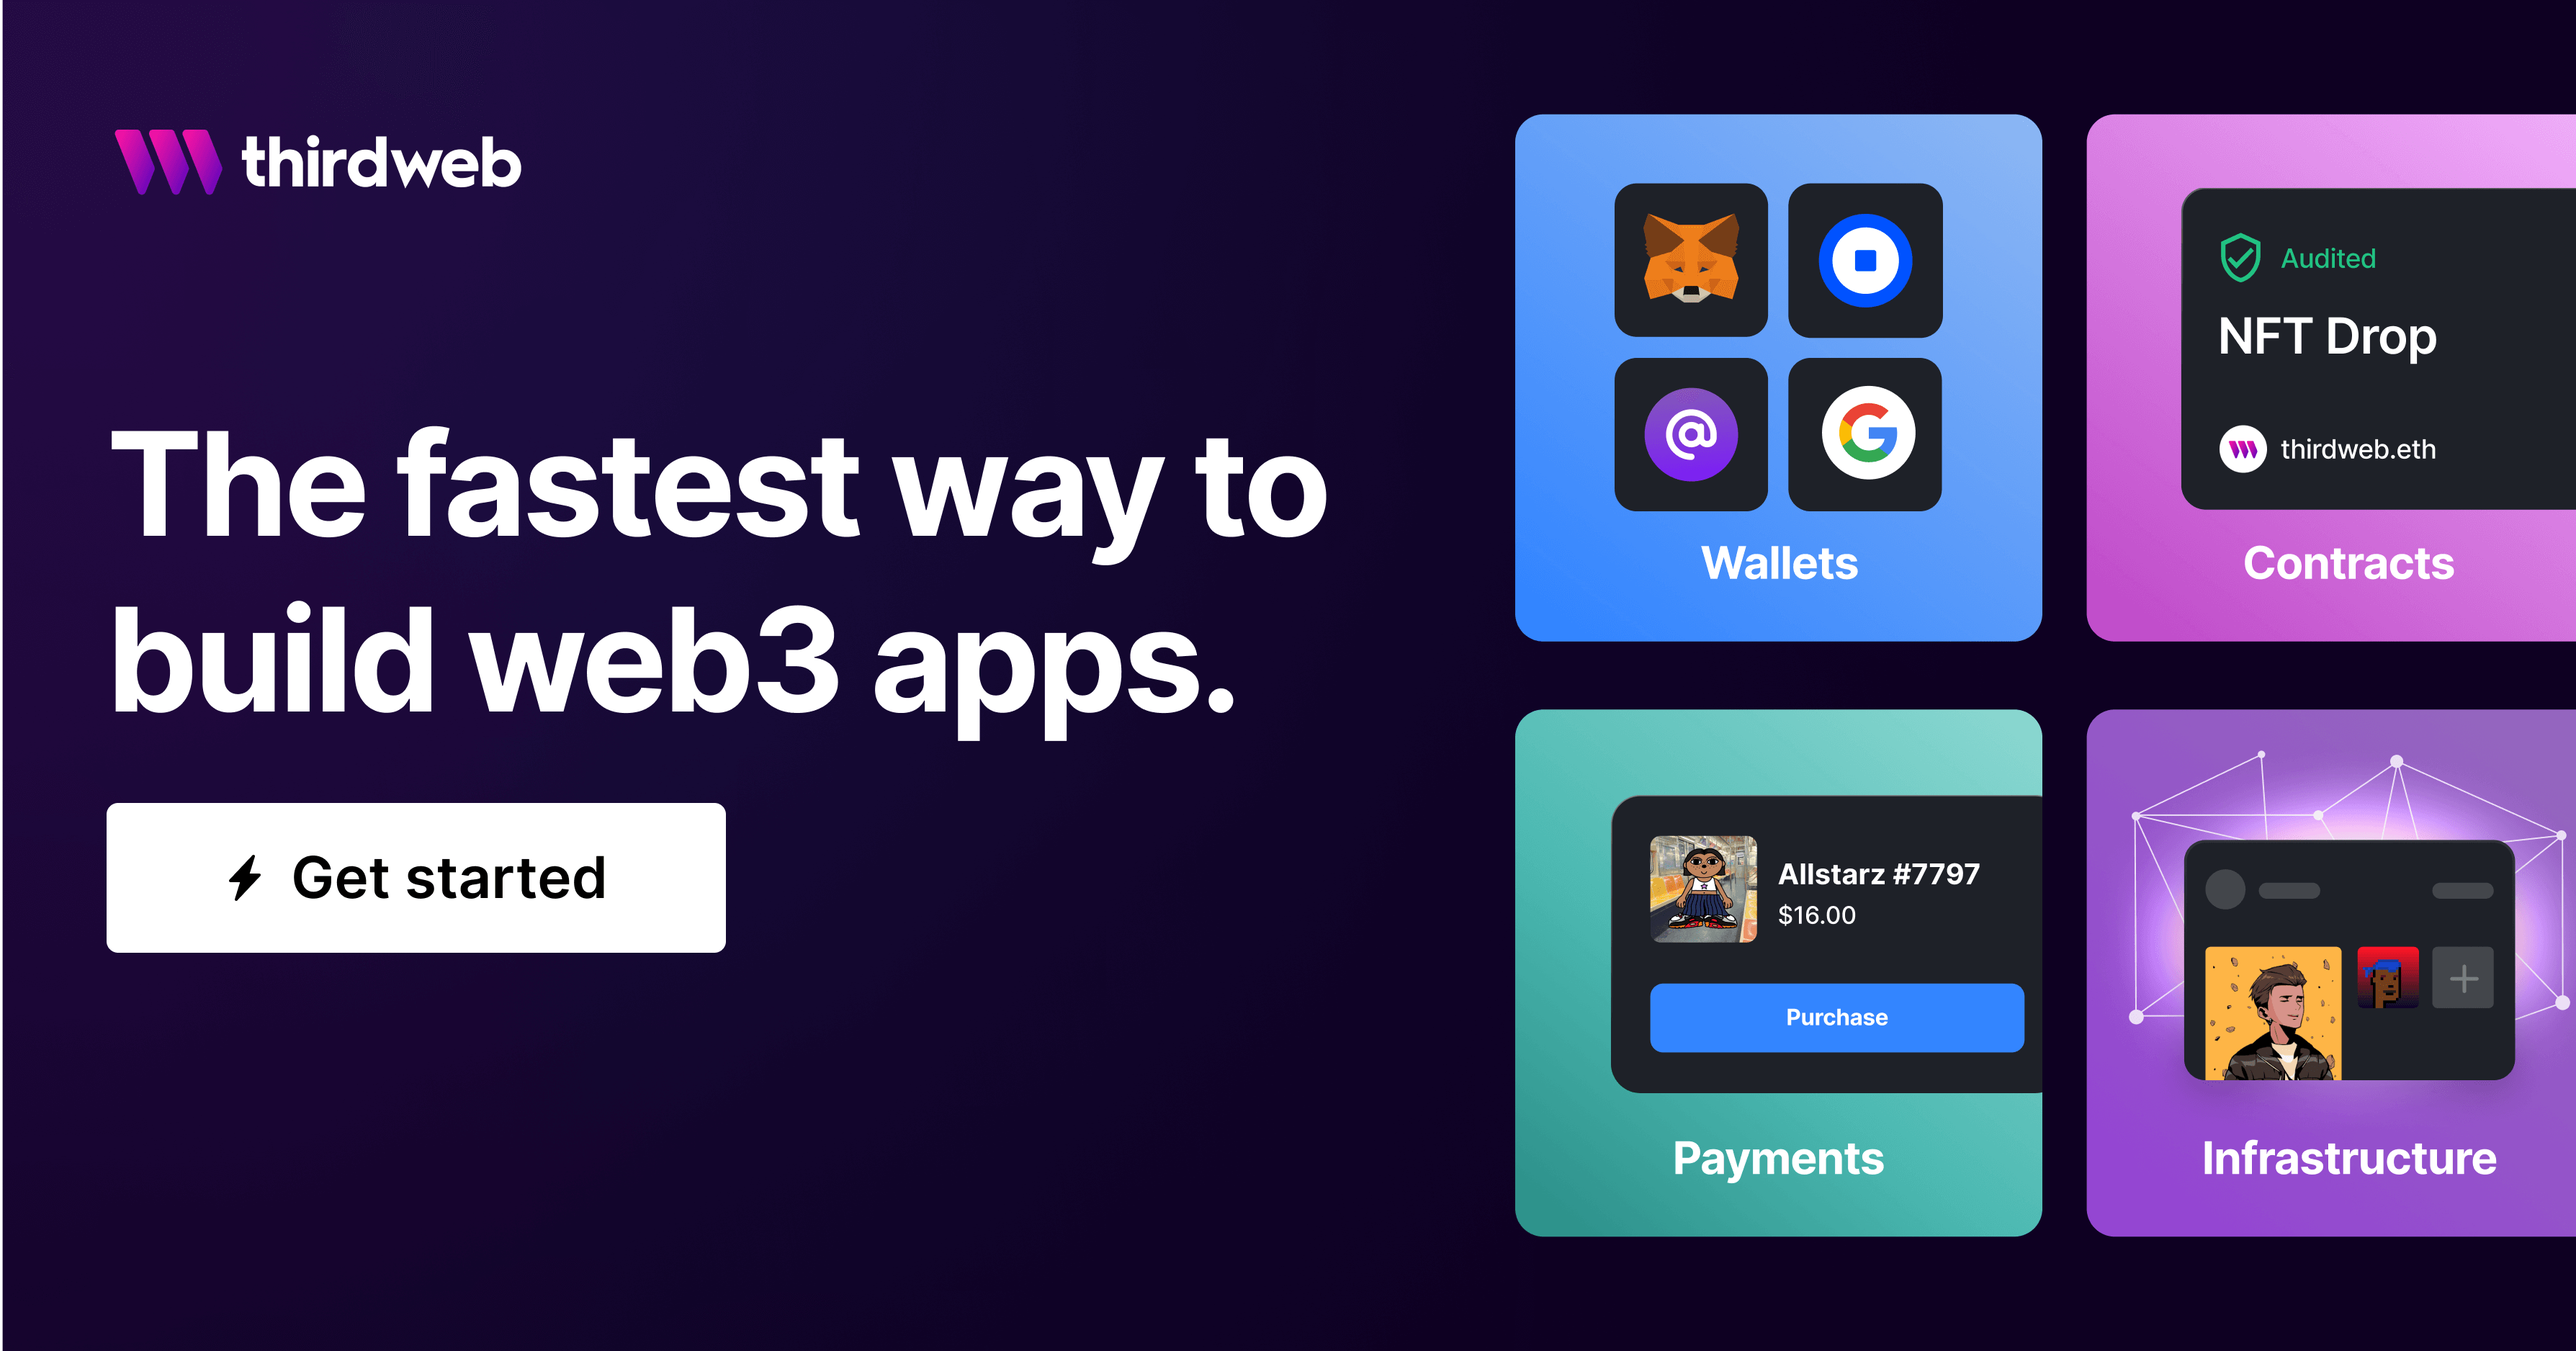
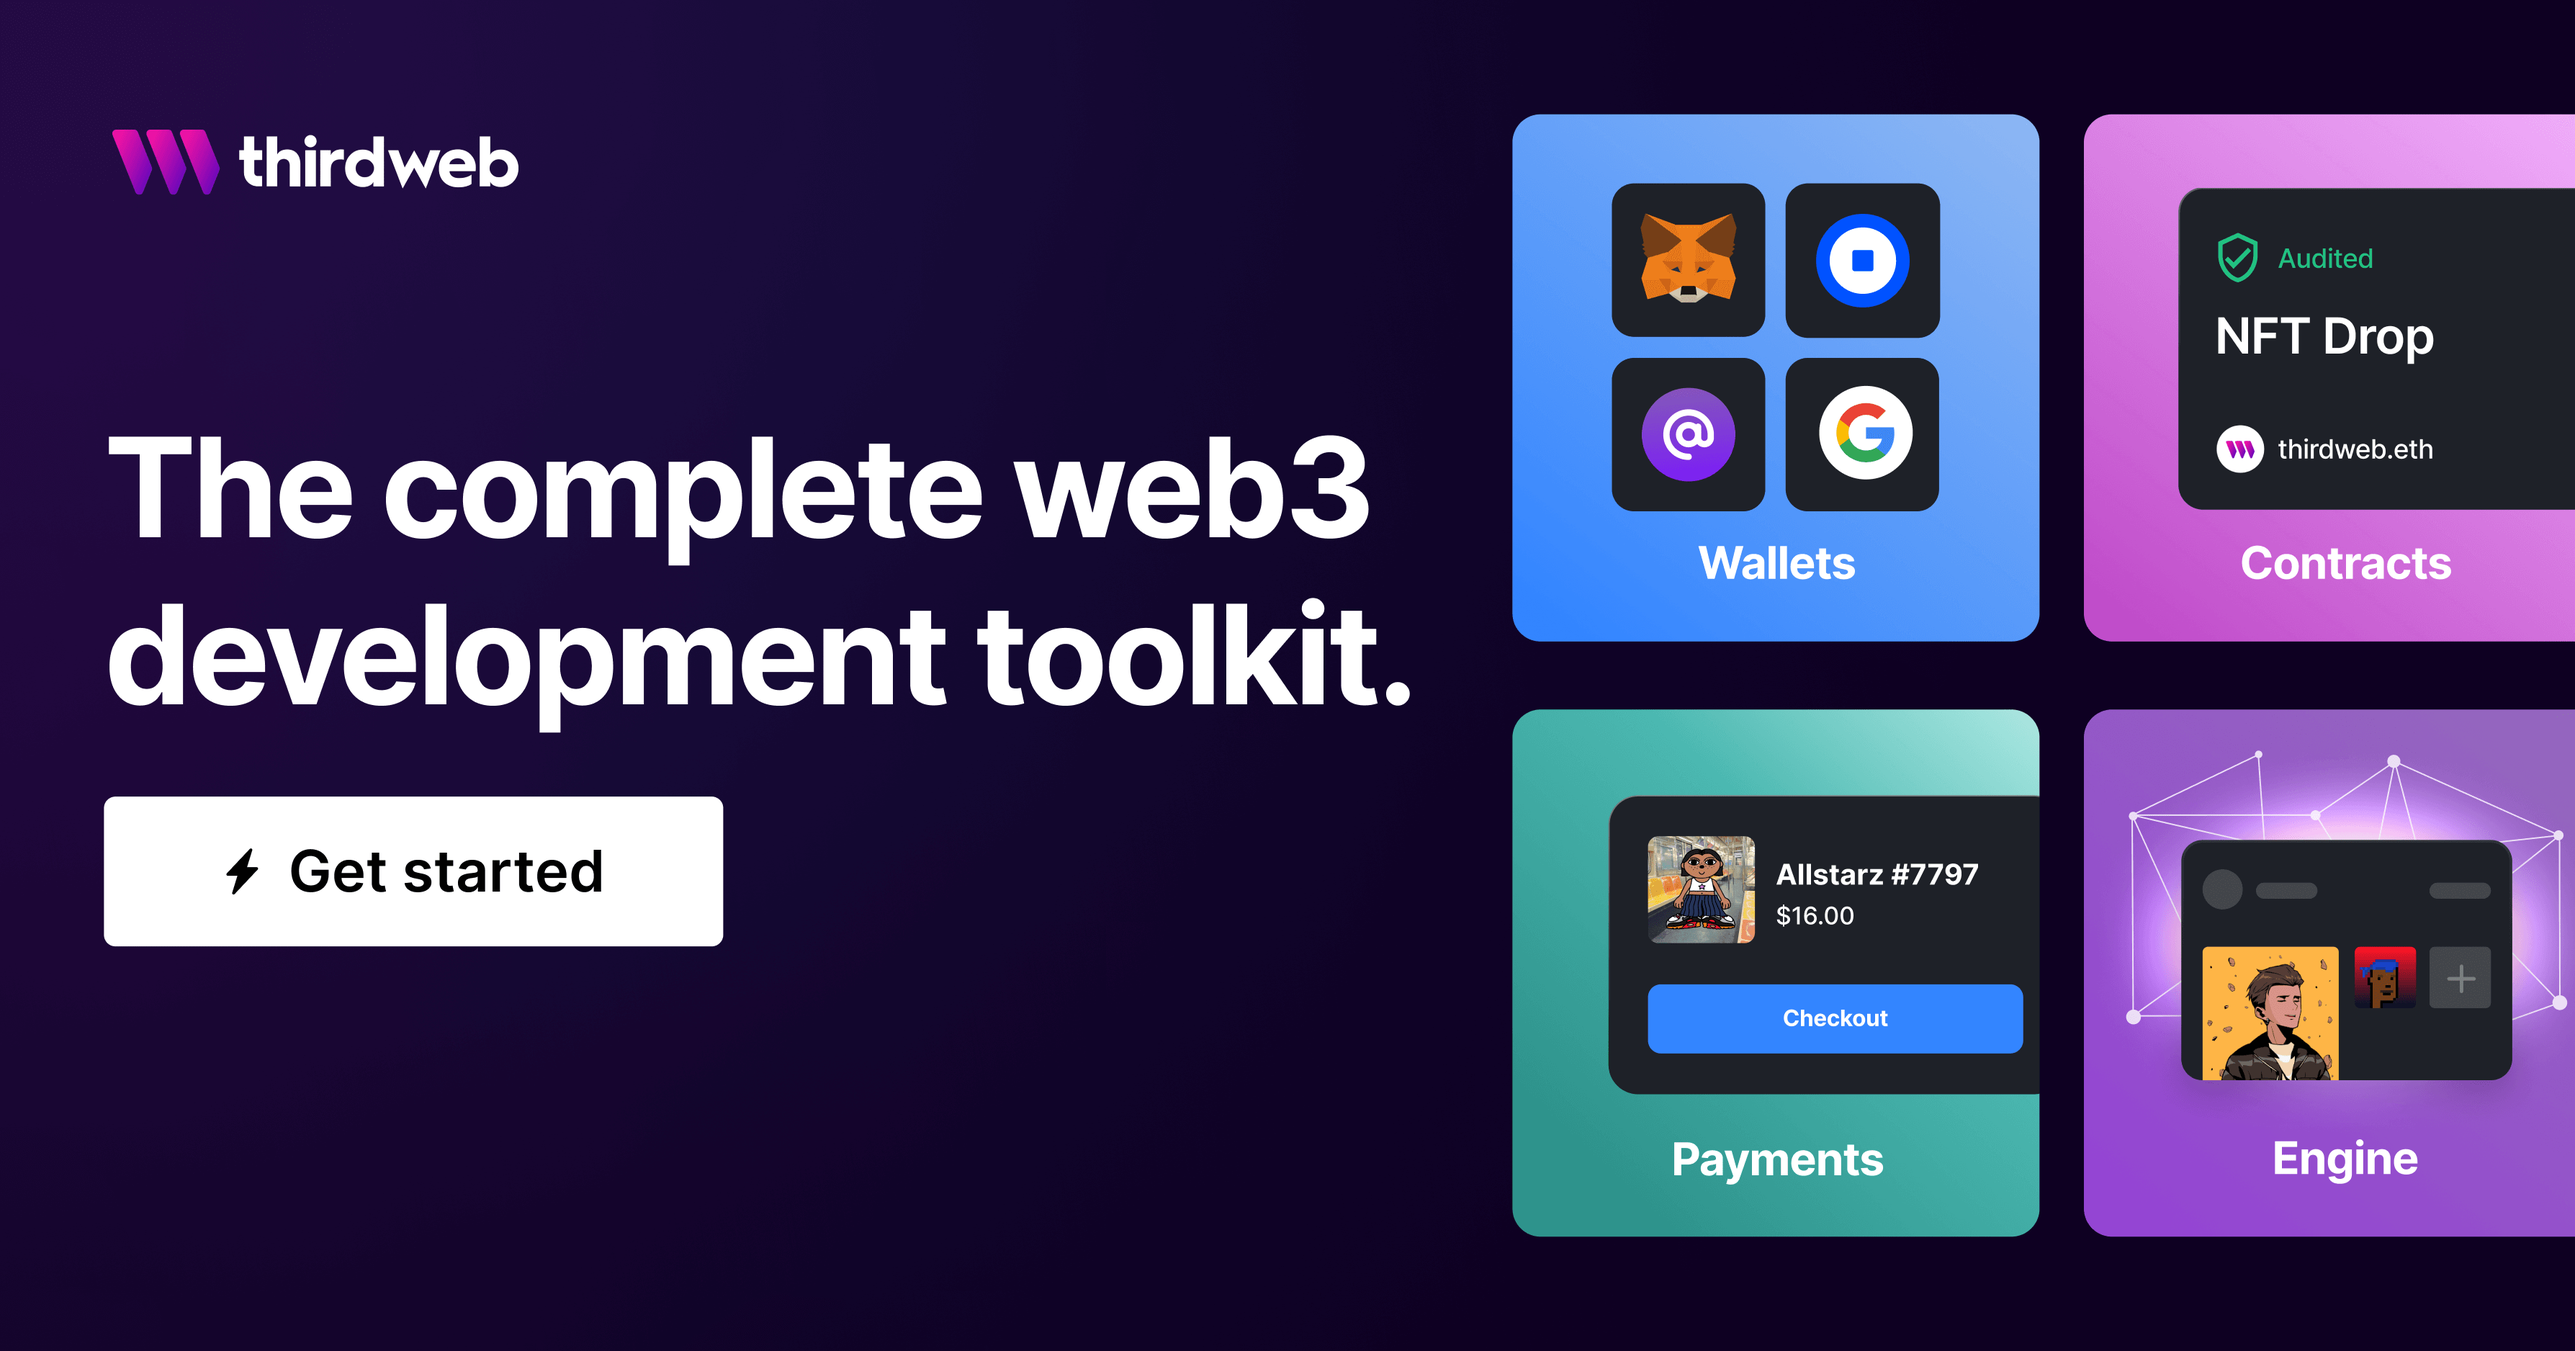
Update infastructure to engine image (#2122)
* update infastructure to engine

* thirdweb.png replace

diff --git a/components/homepage/sections/HeroSection.tsx b/components/homepage/sections/HeroSection.tsx
@@ -35,7 +35,7 @@ export const HeroSection = () => {
         "linear-gradient(43deg, #2E938C 14.8%, #4BB8B1 63.81%, #B8EEE8 104.19%)",
     },
     {
-      src: require("public/assets/landingpage/homepage-infra.png"),
+      src: require("public/assets/landingpage/homepage-engine.png"),
       href: "/engine",
       background: "linear-gradient(218deg, #946CBA -6.46%, #9444D3 93.97%)",
     },
